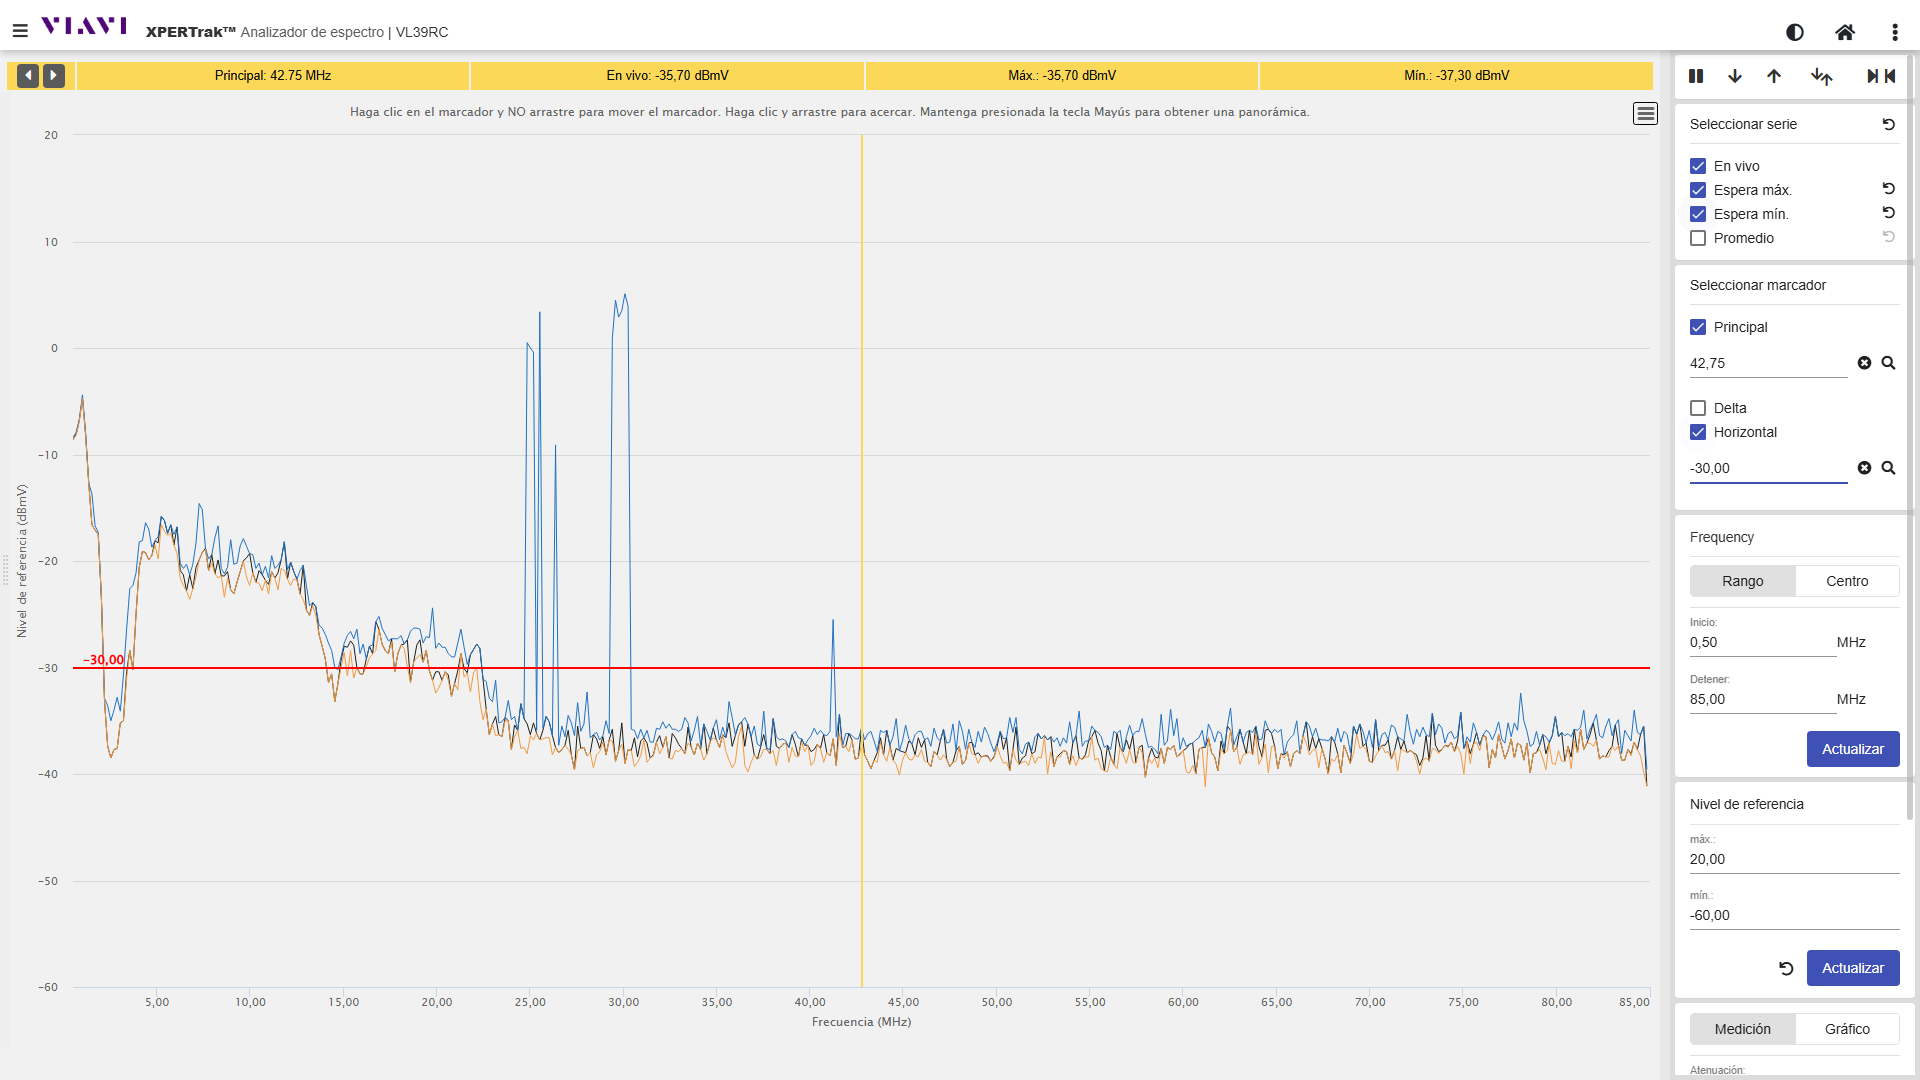
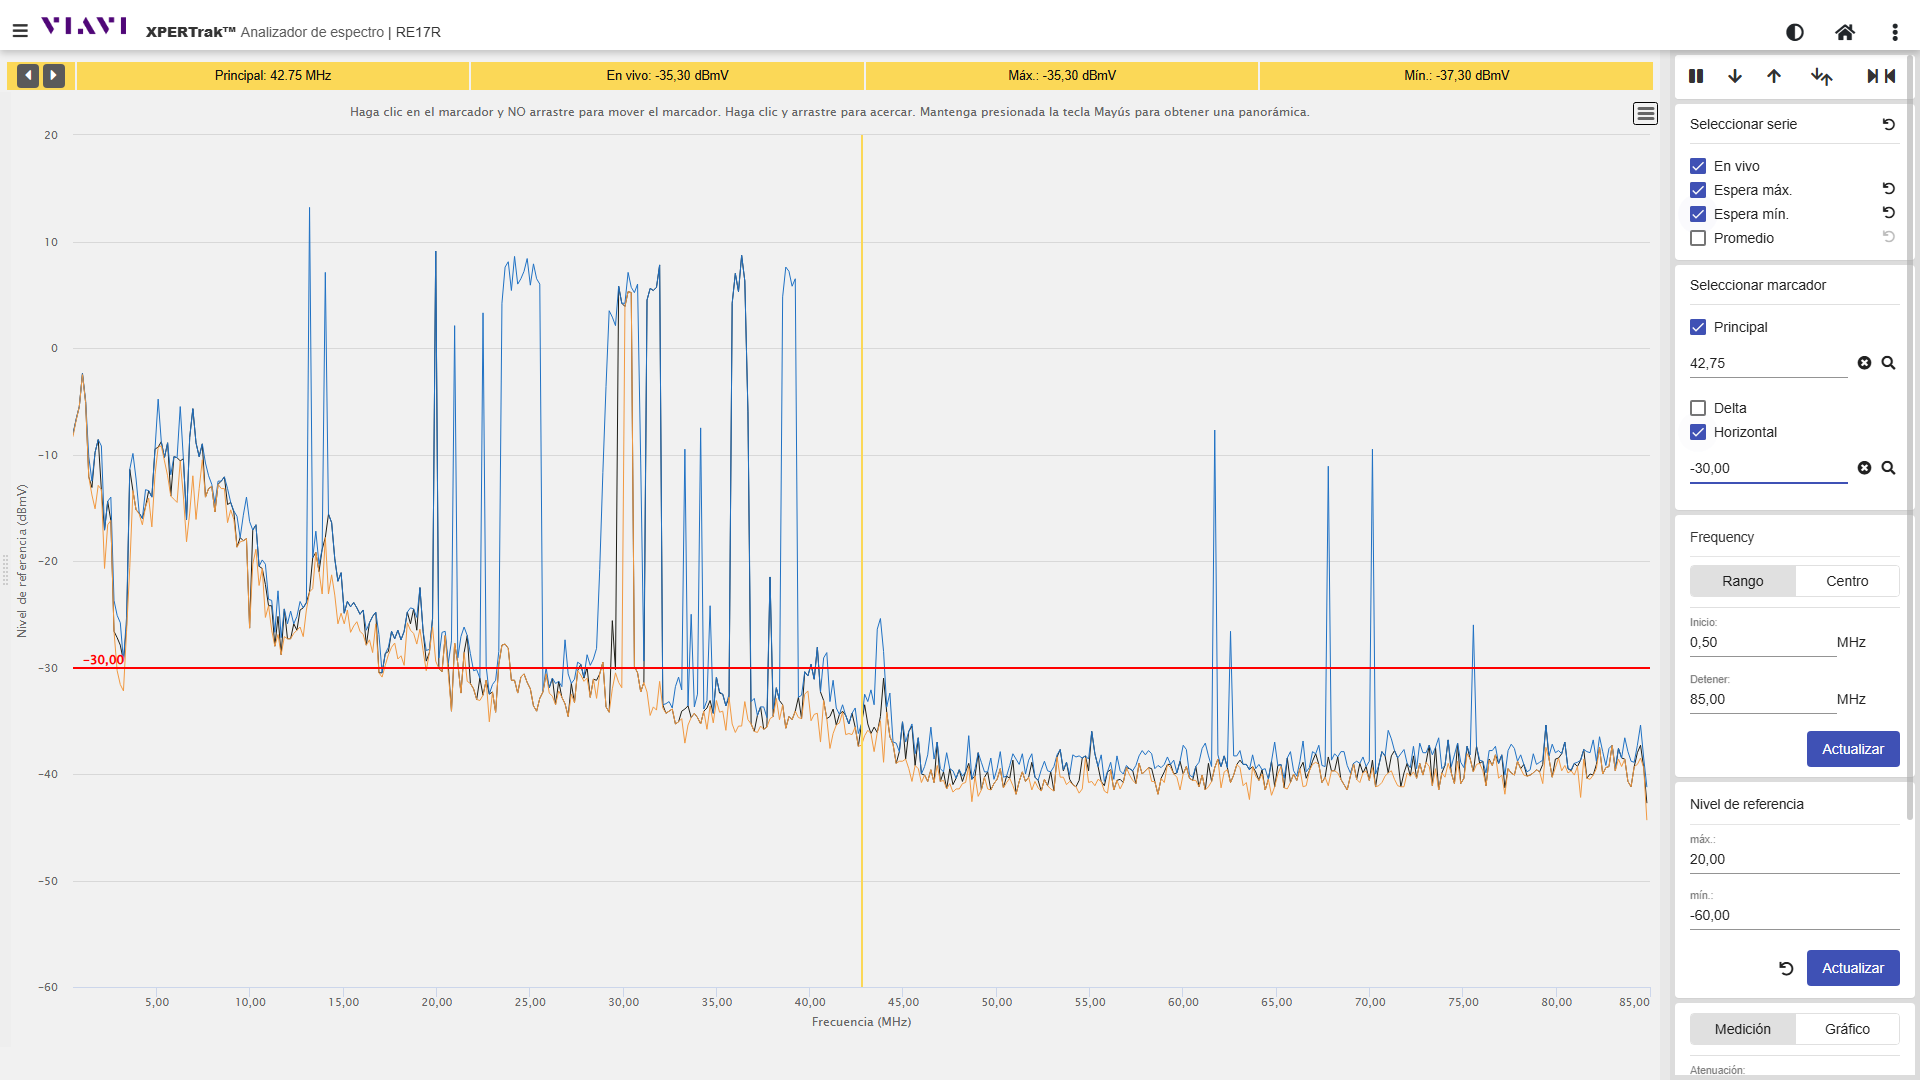
Se añade queryNodo a las rutas nuevas

Changed region(s): [[0.0312, 0.2444, 0.875, 0.7333], [0.25, 0.2444, 0.2812, 0.275], [0.0625, 0.5806, 0.0938, 0.6111]]

diff --git a/captura.js b/captura.js
@@ -615,11 +615,10 @@ app.post('/estadisticas', async (req, res) => {
   // Nota: "req.user" no existe porque no hay middleware de auth que lo
   // setee, así que esto siempre cae en 'usuario desconocido'. Se deja
   // documentado por si en algún momento se agrega autenticación.
-  const username = req.user?.username || 'usuario desconocido';
+  const username = req.body.username || 'usuario desconocido';
 
   console.log('-------------------------------');
-  console.log('🔄 Solicitud de refresco en monitoria recibida por:', username);
-  console.log('📡 Nodo solicitado:', nodo);
+  console.log("🔄 Consulta de monitoria en", nodo, "por:", username);
 
   if (!nodo) {
     return res.status(400).json({ error: 'Debe indicar un nodo' });
@@ -629,21 +628,22 @@ app.post('/estadisticas', async (req, res) => {
   // Si dos peticiones llegan al mismo tiempo para el mismo nodo, la
   // segunda espera en vez de disparar otra consulta en paralelo contra
   // Telecentro (mismo criterio que la sesión de /refrescar).
-  if (!sesionesEstadisticas[nodo]) {
-    sesionesEstadisticas[nodo] = { consultando: false };
+  if (!sesionesEstadisticas[username]) {
+    sesionesEstadisticas[username] = { consultando: false };
   }
 
-  const sesion = sesionesEstadisticas[nodo];
+  const sesion = sesionesEstadisticas[username];
 
   if (sesion.consultando) {
     return res.status(429).json({
-      error: `Ya hay una consulta en curso para el nodo ${nodo}, esperá unos segundos`,
+      error: `Ya tenés una consulta en curso, esperá unos segundos`,
     });
   }
 
   sesion.consultando = true;
 
   try {
+    console.log(`📊 Consulta de monitoria para el ${nodo} en proceso...`, new Date().toLocaleString());
     const filters = {
       groupOp: 'AND',
       rules: [
@@ -677,8 +677,10 @@ app.post('/estadisticas', async (req, res) => {
 
     if (!rows.length) {
       return res.status(404).json({
-        error: `No se encontraron estadísticas para el nodo ${nodo}`,
+        error: `❌ No se encontraron estadísticas para el nodo ${nodo}`,
       });
+    } else {
+      console.log(`✅ Se encontraron ${rows.length} filas de estadísticas para el nodo ${nodo}`);
     }
 
     const parsedRows = rows.map(parseRow);
@@ -727,8 +729,6 @@ app.post('/estadisticas', async (req, res) => {
       pwrUs: summarizeValues(parsedRows.map((row) => row.pwrUs)),
     };
 
-    console.log('✅ Monitoria actualizada:', statistics);
-
     return res.status(200).json(statistics);
   } catch (error) {
     console.error('❌ Error consultando monitoria:', error);
@@ -746,10 +746,10 @@ app.post('/estadisticas', async (req, res) => {
 // Suscribers en React.
 app.post('/abonados/nodo', async (req, res) => {
   const nodo = String(req.body.nodo || '').trim().toUpperCase();
-  const username = req.user?.username || 'usuario desconocido';
+  const username = req.body.username || 'usuario desconocido';
 
   console.log('-------------------------------');
-  console.log("Consulta de", nodo, "por: ", username);
+  console.log("🔄 Consulta de abonados en", nodo, "por:", username);
 
   if (!nodo) {
     return res.status(400).json({ error: 'Debe indicar un nodo' });
@@ -767,14 +767,17 @@ app.post('/abonados/nodo', async (req, res) => {
   sesion.consultando = true;
 
   try {
+    console.log(`📊 Consulta de abonados para el ${nodo} en proceso...`, new Date().toLocaleString());
     const rules = [{ field: 'cmNodo.nodoCmts', op: 'bw', data: nodo }];
 
     const abonados = await buscarAbonadosEnTelecentro(rules, 200);
 
     if (!abonados.length) {
       return res.status(404).json({
-        error: `No se encontraron abonados para el nodo ${nodo}`,
+        error: `❌ No se encontraron abonados para el nodo ${nodo}`,
       });
+    } else {
+      console.log(`✅ Se encontraron ${abonados.length} abonados para el nodo ${nodo}`);
     }
 
     return res.status(200).json(abonados);

diff --git a/src/controllers/monitoring.controller.js b/src/controllers/monitoring.controller.js
@@ -133,6 +133,13 @@ export const getStats = async (req, res) => {
         
         const username = user.username || 'usuario desconocido';
 
+        const queryNodo = await pool.query("SELECT id, tipo FROM nodos WHERE nodo = $1", [nodo.toUpperCase()]);
+        if (!nodo) {
+            return res.status(400).json({ error: 'Debe indicar un nodo' });
+        } else if (queryNodo.rows.length === 0) {
+            return res.status(404).json({ error: `Nodo ${nodo} no encontrado` });
+        }
+
         //tunel
         const getBaseUrl = async () => {
             let result;
@@ -197,7 +204,14 @@ export const getSuscribers = async (req, res) => {
         }
         
         const username = user.username || 'usuario desconocido';
-        
+
+        const queryNodo = await pool.query("SELECT id, tipo FROM nodos WHERE nodo = $1", [nodo.toUpperCase()]);
+        if (!nodo) {
+            return res.status(400).json({ error: 'Debe indicar un nodo' });
+        } else if (queryNodo.rows.length === 0) {
+            return res.status(404).json({ error: `Nodo ${nodo} no encontrado` });
+        }
+
         //tunel
         const getBaseUrl = async () => {
             let result;
